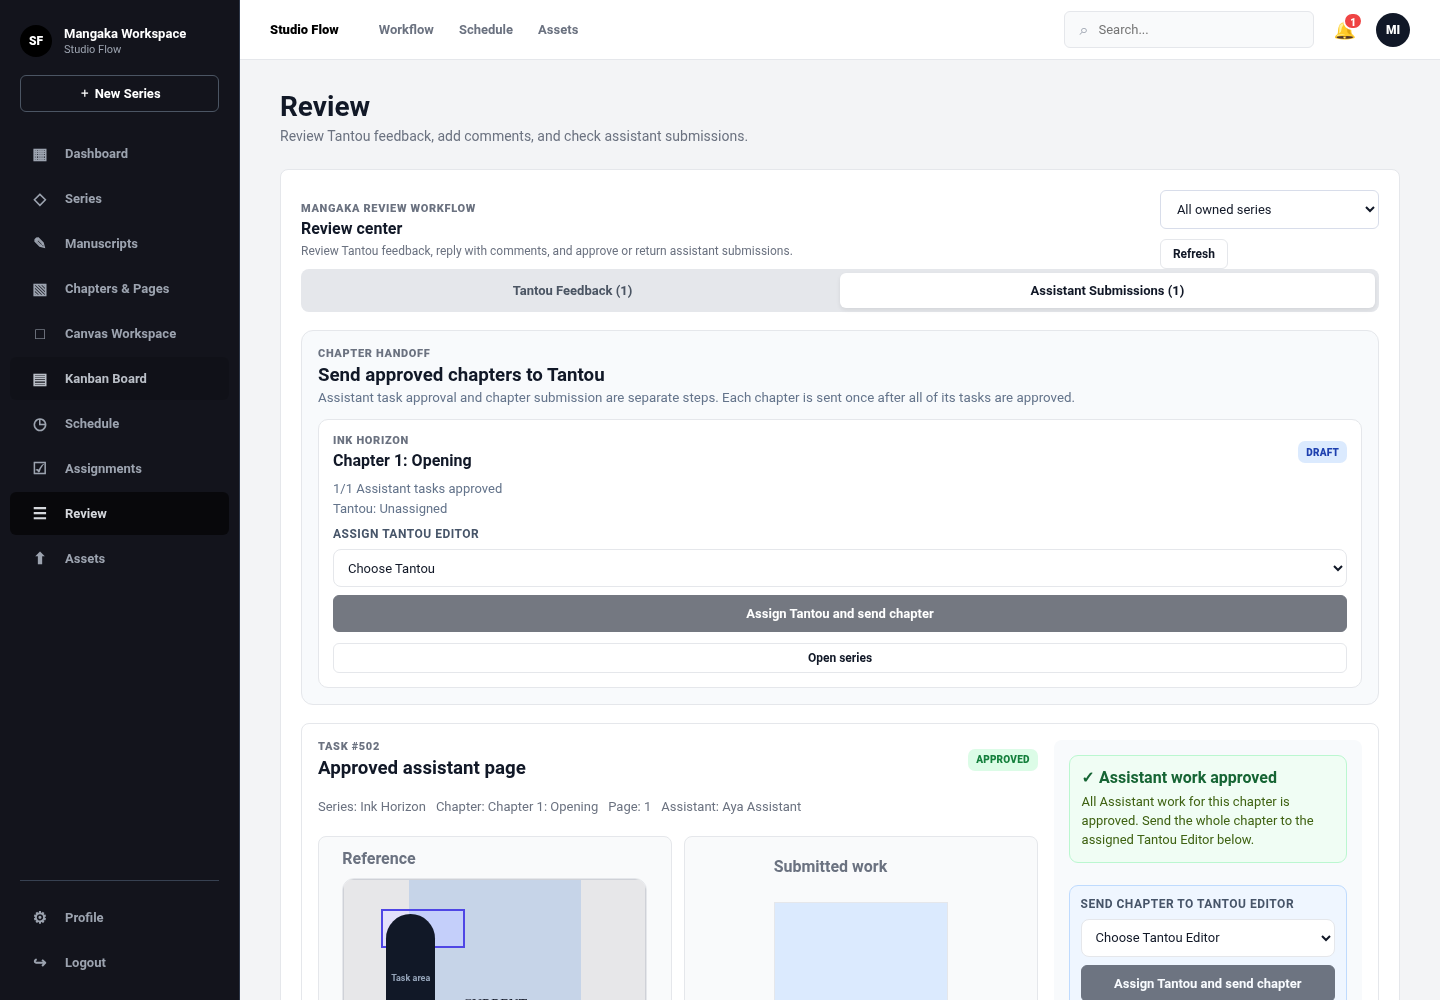
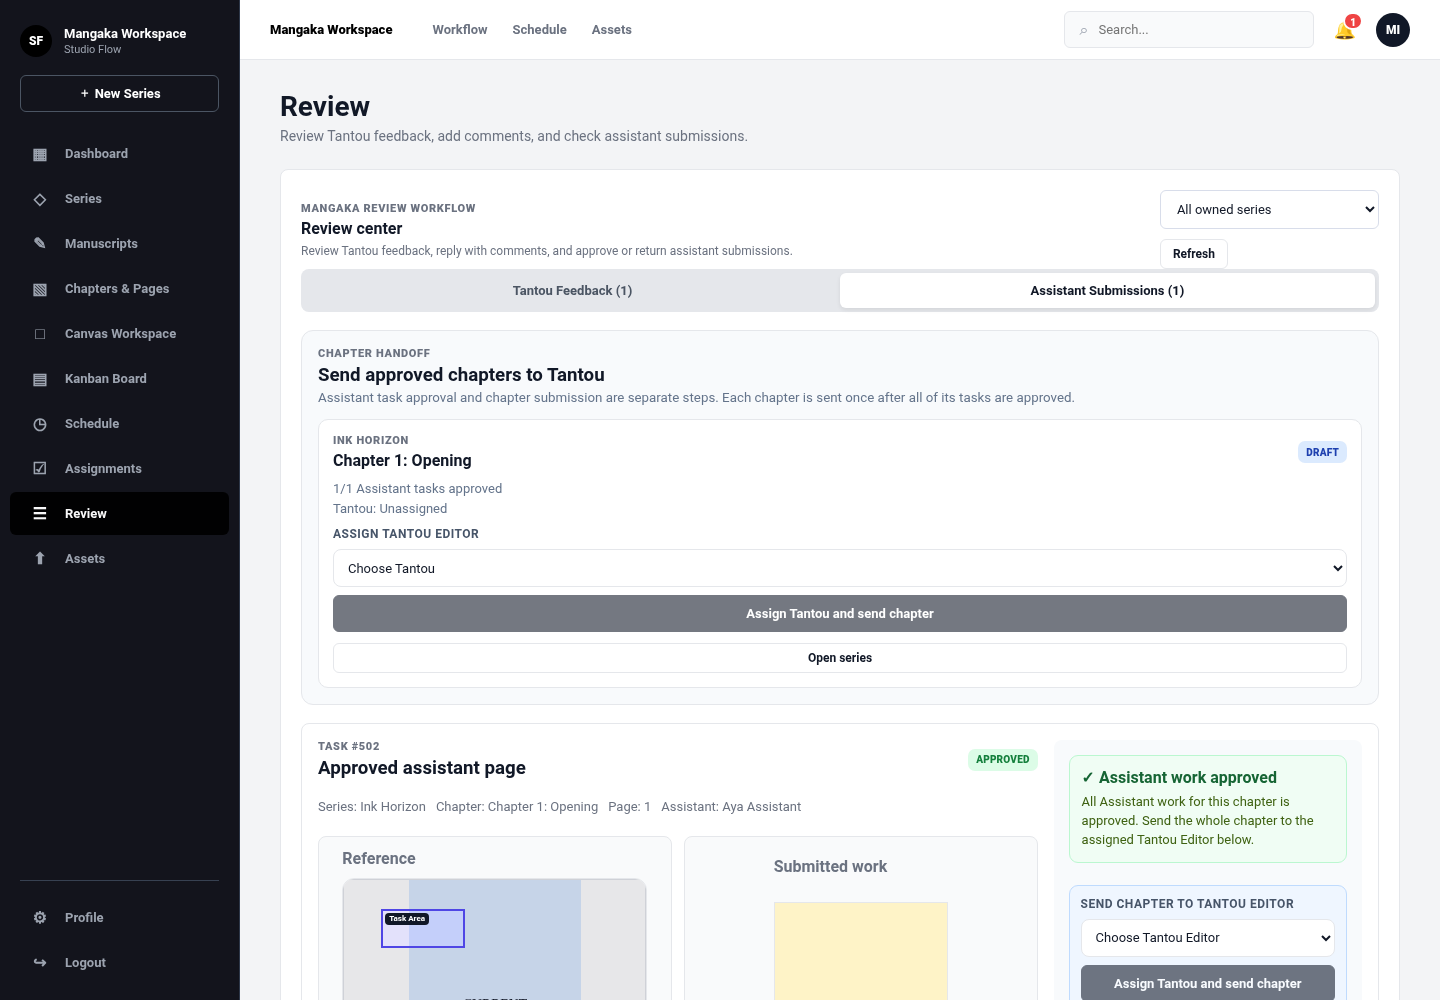
dsf

Changed region(s): [[0.5312, 0.899, 0.6562, 1.0], [0.25, 0.899, 0.3125, 1.0], [0.1875, 0.0, 0.375, 0.031]]

diff --git a/src/styles.css b/src/styles.css
@@ -9829,3 +9829,162 @@ th { font-size:11px; text-transform:uppercase; color:#6b7280; background:#f9fafb
   outline: 2px solid #6366f1;
   outline-offset: 2px;
 }
+
+
+/* =========================================================
+   SWP reported display fixes: task metadata, overlays, workspace
+   ========================================================= */
+
+/* Keep the hitbox caption fitted to the words instead of a large oval. */
+.task-hitbox-label {
+  top: 2px;
+  left: 2px;
+  width: max-content;
+  max-width: calc(100% - 4px);
+  min-width: 0;
+  min-height: 0;
+  height: auto;
+  padding: 1px 4px;
+  border-radius: 4px;
+  font-size: 8px;
+  line-height: 1.15;
+  letter-spacing: 0;
+  box-shadow: none;
+}
+
+/* Style every chapter/page control inside the Canvas Workspace sidebar,
+   including buttons generated for chapters and pages added later. */
+.chapter-workspace-sidebar .chapter-sidebar-list button {
+  appearance: none;
+  width: 100%;
+  min-height: 38px;
+  border: 1px solid #dbe3f0;
+  border-radius: 10px;
+  padding: 9px 11px;
+  background: linear-gradient(180deg, #ffffff 0%, #f8fafc 100%);
+  color: #334155;
+  display: flex;
+  align-items: center;
+  justify-content: space-between;
+  gap: 8px;
+  text-align: left;
+  font: inherit;
+  font-size: 13px;
+  font-weight: 700;
+  cursor: pointer;
+  box-shadow: 0 1px 2px rgba(15, 23, 42, .05);
+  transition: border-color .16s ease, background .16s ease, color .16s ease,
+    box-shadow .16s ease, transform .16s ease;
+}
+
+.chapter-workspace-sidebar .chapter-sidebar-list button:hover:not(:disabled) {
+  border-color: #818cf8;
+  background: #eef2ff;
+  color: #3730a3;
+  box-shadow: 0 5px 14px rgba(79, 70, 229, .12);
+  transform: translateY(-1px);
+}
+
+.chapter-workspace-sidebar .chapter-sidebar-list button:focus-visible {
+  outline: 3px solid rgba(99, 102, 241, .28);
+  outline-offset: 2px;
+}
+
+.chapter-workspace-sidebar .chapter-sidebar-list button:disabled {
+  opacity: .55;
+  cursor: not-allowed;
+  transform: none;
+}
+
+.chapter-workspace-sidebar .chapter-sidebar-button {
+  min-height: 52px;
+  flex-direction: column;
+  align-items: flex-start;
+  justify-content: center;
+}
+
+.chapter-workspace-sidebar .chapter-sidebar-button > span {
+  color: inherit;
+  font-size: 13px;
+  font-weight: 850;
+}
+
+.chapter-workspace-sidebar .chapter-sidebar-button > small {
+  max-width: 100%;
+  color: #64748b;
+  font-size: 11px;
+  font-weight: 600;
+  overflow: hidden;
+  text-overflow: ellipsis;
+  white-space: nowrap;
+}
+
+.chapter-workspace-sidebar .chapter-sidebar-button.active {
+  border-color: #4f46e5;
+  background: linear-gradient(135deg, #eef2ff 0%, #e0e7ff 100%);
+  color: #3730a3;
+  box-shadow: 0 6px 16px rgba(79, 70, 229, .15);
+}
+
+.chapter-workspace-sidebar .chapter-sidebar-button.active > small {
+  color: #4f46e5;
+}
+
+.chapter-workspace-sidebar .chapter-sidebar-pages {
+  padding: 2px 0 2px 12px;
+}
+
+.chapter-workspace-sidebar .chapter-sidebar-pages button {
+  position: relative;
+  min-height: 34px;
+  padding: 7px 10px 7px 25px;
+  border-radius: 8px;
+  background: #f8fafc;
+  font-size: 12px;
+  font-weight: 700;
+}
+
+.chapter-workspace-sidebar .chapter-sidebar-pages button::before {
+  content: "";
+  position: absolute;
+  left: 10px;
+  top: 50%;
+  width: 6px;
+  height: 6px;
+  border-radius: 999px;
+  background: #94a3b8;
+  transform: translateY(-50%);
+}
+
+.chapter-workspace-sidebar .chapter-sidebar-pages button.active {
+  border-color: #6366f1;
+  background: #4f46e5;
+  color: #ffffff;
+  box-shadow: 0 5px 13px rgba(79, 70, 229, .2);
+}
+
+.chapter-workspace-sidebar .chapter-sidebar-pages button.active::before {
+  background: #ffffff;
+}
+
+/* Override the generic .preview-box span placeholder rule for the hitbox badge. */
+.preview-box .task-hitbox-label,
+.submission-preview .task-hitbox-label {
+  display: inline-flex;
+  place-items: initial;
+  align-items: center;
+  justify-content: center;
+  width: max-content;
+  max-width: calc(100% - 4px);
+  min-width: 0;
+  min-height: 0;
+  height: auto;
+  padding: 1px 4px;
+  border-radius: 4px;
+  background: #111827;
+  color: #ffffff;
+  font-size: 8px;
+  line-height: 1.15;
+  letter-spacing: 0;
+  white-space: nowrap;
+}

diff --git a/src/pages/MangakaAssistantReviewPage.jsx b/src/pages/MangakaAssistantReviewPage.jsx
@@ -84,22 +84,36 @@ function taskChapterId(task) {
 }
 
 function submittedUrl(task) {
-  return mediaUrlFrom(task, task.submittedImageUrl, task.submitted_image_url, task.submissionUrl, task.submission_url, task.imageUrl, task.image_url);
+  return mediaUrlFrom(
+    task?.submittedImageUrl,
+    task?.submitted_image_url,
+    task?.submissionUrl,
+    task?.submission_url,
+    task?.submittedWorkUrl,
+    task?.submitted_work_url,
+    task?.imageUrl,
+    task?.image_url
+  );
 }
 
 function referenceUrl(task) {
+  // Keep the immutable source page separate from the Assistant submission.
+  // Passing the whole task to mediaUrlFrom() would prefer submittedImageUrl.
   return mediaUrlFrom(
-    task,
-    task.referenceImageUrl,
-    task.reference_image_url,
-    task.pageImageUrl,
-    task.page_image_url,
-    task.page?.imageUrl,
-    task.page?.image_url,
-    task.hitbox?.page?.imageUrl,
-    task.hitbox?.page?.image_url,
-    task.hitboxDto?.page?.imageUrl,
-    task.hitboxDto?.page?.image_url
+    task?.referenceImageUrl,
+    task?.reference_image_url,
+    task?.pageImageUrl,
+    task?.page_image_url,
+    task?.page?.imageUrl,
+    task?.page?.image_url,
+    task?.hitbox?.pageImageUrl,
+    task?.hitbox?.page_image_url,
+    task?.hitbox?.page?.imageUrl,
+    task?.hitbox?.page?.image_url,
+    task?.hitboxDto?.pageImageUrl,
+    task?.hitboxDto?.page_image_url,
+    task?.hitboxDto?.page?.imageUrl,
+    task?.hitboxDto?.page?.image_url
   );
 }
 
@@ -1027,7 +1041,7 @@ function HitboxPreview({ title, url, box }) {
         />
         {hasBox && imageSize.width > 0 && imageSize.height > 0 && (
           <div className="task-hitbox-overlay" style={{ left: `${left}%`, top: `${top}%`, width: `${boxWidth}%`, height: `${boxHeight}%` }}>
-            <span className="task-hitbox-label">Task area</span>
+            <span className="task-hitbox-label">Task Area</span>
           </div>
         )}
       </div>

diff --git a/src/pages/ManuscriptsPage.jsx b/src/pages/ManuscriptsPage.jsx
@@ -238,18 +238,6 @@ export default function ManuscriptsPage({ initialSeriesId = "" }) {
                 <button className="btn-publish" onClick={saveScript} disabled={saving || !canEdit}>{saving ? "Saving..." : "Save Script"}</button>
                 <button className="btn" onClick={() => navigate(`/chapters-pages?seriesId=${selectedSeriesId}`)}>Open Chapter Manager</button>
               </div>
-              <div className="page-grid manuscript-page-preview-grid">
-                {selectedPages.map((page) => {
-                  const url = pageImage(page);
-                  return (
-                    <div className="page-card" key={page.id}>
-                      <button className={String(selectedPageId) === String(page.id) ? "active" : ""} onClick={() => setSelectedPageId(String(page.id))}>{url ? <img src={url} alt={`Page ${pageNumber(page)}`} /> : <span>No image</span>}</button>
-                      <div className="page-card-footer"><strong>Page {pageNumber(page)}</strong></div>
-                    </div>
-                  );
-                })}
-              </div>
-              {!selectedPages.length && <EmptyState icon="▧" title="No page previews" body="Upload page images from Chapters & Pages." />}
             </>
           ) : <EmptyState icon="✎" title="Select a chapter" body="Choose a chapter from the tree to view or edit its script." />}
         </div>

diff --git a/src/pages/TasksPage.jsx b/src/pages/TasksPage.jsx
@@ -77,8 +77,12 @@ function taskReferenceUrl(task) {
     task?.page_image_url,
     task?.page?.imageUrl,
     task?.page?.image_url,
+    task?.hitbox?.pageImageUrl,
+    task?.hitbox?.page_image_url,
     task?.hitbox?.page?.imageUrl,
     task?.hitbox?.page?.image_url,
+    task?.hitboxDto?.pageImageUrl,
+    task?.hitboxDto?.page_image_url,
     task?.hitboxDto?.page?.imageUrl,
     task?.hitboxDto?.page?.image_url
   );
@@ -719,7 +723,7 @@ function TaskDetail({ selected, selectedHitbox, hitboxLoading, assistants, canAs
             <div className="task-detail-meta"><span>Task #{taskDisplayNumber(selected)}</span><span>{taskSeriesTitle(selected) || "No series"}</span></div>
             <h1>{selected.description || `Task #${taskDisplayNumber(selected)}`}</h1>
             <div className="meta-row wrap">
-              <span>Chapter: {taskChapterLabel(selected)}</span>
+              <span data-testid="task-chapter-meta">{taskChapterLabel(selected)}</span>
               <span>Page: {taskPageNumber(selected) || "-"}</span>
               <span>Assistant: {taskAssistantName(selected) || "Unassigned"}</span>
             </div>
@@ -950,7 +954,7 @@ function HitboxPreview({ title, url, box, loading }) {
         />
         {hasBox && imageSize.width > 0 && imageSize.height > 0 && (
           <div className="task-hitbox-overlay" style={{ left: `${left}%`, top: `${top}%`, width: `${boxWidth}%`, height: `${boxHeight}%` }}>
-            <span className="task-hitbox-label">Task area</span>
+            <span className="task-hitbox-label">Task Area</span>
           </div>
         )}
       </div>